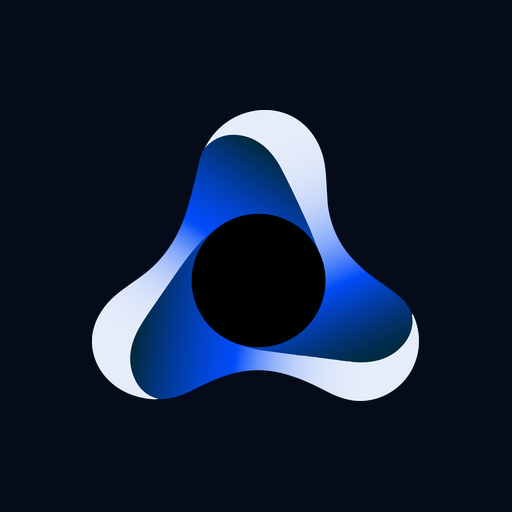
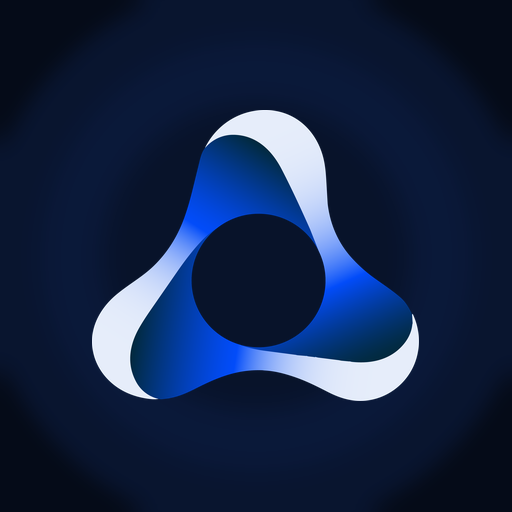
Actualizaciones varias para vista en celulares

diff --git a/app/page.tsx b/app/page.tsx
@@ -314,21 +314,36 @@ export default function OimaDashboard() {
 
         </header>
 
-        <div className="flex-1 p-4 lg:p-10 max-lg:pb-[max(1rem,env(safe-area-inset-bottom))]">
+        <div className="flex-1 p-4 lg:p-10 max-lg:pb-2">
           
           {vistaActual === "inicio" && condoDashboardData && (
             <div className="flex flex-col animate-in fade-in slide-in-from-top-4 duration-700">
-              {/* Móvil/iPad: saludo arriba. PC: saludo abajo (después de las tarjetas). */}
-              <div className="order-1 lg:order-2 mb-4 lg:mb-0 lg:mt-10 bg-[#0C1327] p-5 lg:p-8 rounded-[1.75rem] lg:rounded-[2.5rem] border border-white/5 shadow-2xl relative overflow-hidden group">
-                <div className="flex flex-col lg:flex-row lg:items-center gap-4 lg:gap-6 relative z-10">
-                  {/* Logo solo en PC; en celular se saca del saludo */}
+              {/* MÓVIL / iPad: saludo arriba, más alto, sin logo Vordia */}
+              <div className="lg:hidden mb-2.5 bg-[#0C1327] px-5 py-9 min-h-[8rem] rounded-[1.75rem] border border-white/5 shadow-2xl flex items-center">
+                <p className="text-slate-300 text-sm font-medium leading-relaxed">
+                  Hola{" "}
+                  <span className="text-blue-400 font-bold uppercase tracking-widest">
+                    {usuarioActivo?.nombre}
+                  </span>
+                  , el sistema está listo para operar. Elegí una opción en el menú.
+                </p>
+              </div>
+
+              {/* 8 tarjetas — en móvil más cerca del saludo y del pie */}
+              <div className="max-lg:mb-1">
+                <DashboardCards dashboardData={condoDashboardData} onRefresh={cargarDatos} />
+              </div>
+
+              {/* PC: saludo abajo CON logo Vordia (como antes) */}
+              <div className="hidden lg:block mt-10 bg-[#0C1327] p-8 rounded-[2.5rem] border border-white/5 shadow-2xl relative overflow-hidden group">
+                <div className="flex flex-row items-center gap-6 relative z-10">
                   <img
                     src="/images/VORDIA HORIZONTAL.png"
                     alt="Vordia"
-                    className="hidden lg:block h-12 w-auto max-w-[220px] object-contain object-left shrink-0"
+                    className="h-12 w-auto max-w-[220px] object-contain object-left shrink-0"
                   />
                   <div className="flex-1 min-w-0">
-                    <p className="text-slate-400 text-xs lg:text-sm font-medium leading-relaxed">
+                    <p className="text-slate-400 text-sm font-medium leading-relaxed">
                       Hola{" "}
                       <span className="text-blue-400 font-bold uppercase tracking-widest">
                         {usuarioActivo?.nombre}
@@ -337,9 +352,6 @@ export default function OimaDashboard() {
                     </p>
                   </div>
                 </div>
-              </div>
-              <div className="order-2 lg:order-1">
-                <DashboardCards dashboardData={condoDashboardData} onRefresh={cargarDatos} />
               </div>
             </div>
           )}
@@ -384,13 +396,13 @@ export default function OimaDashboard() {
           )}
         </div>
 
-        <footer className="w-full py-6 lg:py-10 px-4 lg:px-12 flex justify-end items-center no-print max-lg:pb-[max(1.5rem,env(safe-area-inset-bottom))]">
+        <footer className="w-full pt-3 pb-8 lg:py-10 px-4 lg:px-12 flex justify-end items-center no-print max-lg:min-h-[5.25rem] max-lg:pb-[max(2rem,env(safe-area-inset-bottom))]">
           <div className="relative group">
             <div className="absolute inset-0 bg-blue-600/10 blur-2xl rounded-full opacity-0 group-hover:opacity-100 transition-opacity duration-700" />
             <img 
               src="/images/VORDIA HORIZONTAL.png" 
               alt="Vordia" 
-              className="h-7 lg:h-9 w-auto max-w-[160px] lg:max-w-[180px] object-contain relative z-10 transition-transform duration-500 group-hover:scale-105 shrink-0"
+              className="h-8 lg:h-9 w-auto max-w-[170px] lg:max-w-[180px] object-contain relative z-10 transition-transform duration-500 group-hover:scale-105 shrink-0"
             />
           </div>
         </footer>

diff --git a/app/condominio/DashboardCards.tsx b/app/condominio/DashboardCards.tsx
@@ -1371,7 +1371,7 @@ export function DashboardCards({ dashboardData, onRefresh }: { dashboardData: an
     <div>
       
       {/* Móvil/iPad: SIEMPRE 2 columnas. Desktop: 4. (CSS .dashboard-metric-grid refuerza <1024px) */}
-      <div className="dashboard-metric-grid grid grid-cols-2 gap-2.5 sm:gap-3 lg:grid-cols-3 xl:grid-cols-4 mb-6 sm:mb-8">
+      <div className="dashboard-metric-grid grid grid-cols-2 gap-2 sm:gap-2.5 lg:grid-cols-3 xl:grid-cols-4 mb-2 sm:mb-4 lg:mb-8">
         {[
           { id: "ocupados", label: "Ocupados", labelShort: "Ocupados", value: stats.occupied, icon: Users, color: "text-primary", bg: "bg-primary/10", suffix: " Dúplex", currency: false },
           { id: "disponibles", label: "Disponibles", labelShort: "Disponibles", value: stats.available === 0 ? "Completo" : stats.available, icon: Home, color: "text-emerald-400", bg: "bg-emerald-400/10", suffix: stats.available === 0 ? "" : " Dúplex", currency: false },
@@ -1396,7 +1396,7 @@ export function DashboardCards({ dashboardData, onRefresh }: { dashboardData: an
             className={`border border-border shadow-sm transition-all duration-200 cursor-pointer ${detailView === metric.id ? 'ring-2 ring-primary' : ''} rounded-xl sm:rounded-2xl bg-card overflow-hidden group min-w-0`}
           >
             {/* Móvil: layout horizontal legible en 2 columnas */}
-            <CardContent className="lg:hidden p-3 relative flex flex-row items-center gap-2.5 min-h-[72px] min-w-0">
+            <CardContent className="lg:hidden p-2.5 relative flex flex-row items-center gap-2 min-h-[64px] min-w-0">
               <div className={`w-9 h-9 rounded-lg ${metric.bg} ${metric.color} flex items-center justify-center shrink-0`}>
                 <metric.icon className="w-4 h-4 stroke-[2px]" />
               </div>

diff --git a/app/manifest.ts b/app/manifest.ts
@@ -13,25 +13,25 @@ export default function manifest(): MetadataRoute.Manifest {
     theme_color: "#050B18",
     icons: [
       {
-        src: "/icons/icon-192.png",
+        src: "/icons/icon-192.png?v=20260818",
         sizes: "192x192",
         type: "image/png",
         purpose: "any",
       },
       {
-        src: "/icons/icon-512.png",
+        src: "/icons/icon-512.png?v=20260818",
         sizes: "512x512",
         type: "image/png",
         purpose: "any",
       },
       {
-        src: "/icons/icon-maskable-192.png",
+        src: "/icons/icon-maskable-192.png?v=20260818",
         sizes: "192x192",
         type: "image/png",
         purpose: "maskable",
       },
       {
-        src: "/icons/icon-maskable-512.png",
+        src: "/icons/icon-maskable-512.png?v=20260818",
         sizes: "512x512",
         type: "image/png",
         purpose: "maskable",

diff --git a/app/layout.tsx b/app/layout.tsx
@@ -34,12 +34,12 @@ export const metadata: Metadata = {
   // Iconos cuadrados oficiales (fondo #050B18 + área de protección) para acceso directo
   icons: {
     icon: [
-      { url: "/icons/icon-192.png", sizes: "192x192", type: "image/png" },
-      { url: "/icons/icon-512.png", sizes: "512x512", type: "image/png" },
+      { url: "/icons/icon-192.png?v=20260818", sizes: "192x192", type: "image/png" },
+      { url: "/icons/icon-512.png?v=20260818", sizes: "512x512", type: "image/png" },
     ],
-    shortcut: "/icons/icon-192.png",
+    shortcut: "/icons/icon-192.png?v=20260818",
     apple: [
-      { url: "/icons/apple-touch-icon.png", sizes: "180x180", type: "image/png" },
+      { url: "/icons/apple-touch-icon.png?v=20260818", sizes: "180x180", type: "image/png" },
     ],
   },
 };

diff --git a/app/globals.css b/app/globals.css
@@ -191,7 +191,7 @@ html {
 .dashboard-metric-grid {
   display: grid;
   grid-template-columns: repeat(2, minmax(0, 1fr));
-  gap: 0.65rem;
+  gap: 0.5rem;
 }
 @media (min-width: 1024px) {
   .dashboard-metric-grid {

diff --git a/scripts/generate_launcher_icons.py b/scripts/generate_launcher_icons.py
@@ -1,0 +1,127 @@
+"""Genera iconos PWA / launcher al estilo USO EN LAUNCHER (guía Vordia)."""
+from pathlib import Path
+
+from PIL import Image, ImageDraw, ImageFilter
+
+ROOT = Path(__file__).resolve().parents[1]
+ISO = ROOT / "public" / "images" / "ISOTIPO.png"
+OUT = ROOT / "public" / "icons"
+APP = ROOT / "app"
+BG = (5, 11, 24, 255)  # #050B18
+
+
+def load_logo() -> Image.Image:
+    src = Image.open(ISO).convert("RGBA")
+    pixels = src.load()
+    w, h = src.size
+
+    def is_content(x: int, y: int) -> bool:
+        r, g, b, a = pixels[x, y]
+        if a < 20:
+            return False
+        if r < 18 and g < 18 and b < 18:
+            return False
+        return True
+
+    minx, miny, maxx, maxy = w, h, 0, 0
+    found = False
+    for y in range(h):
+        for x in range(w):
+            if is_content(x, y):
+                found = True
+                minx = min(minx, x)
+                miny = min(miny, y)
+                maxx = max(maxx, x)
+                maxy = max(maxy, y)
+    if not found:
+        raise SystemExit("No se encontró contenido en ISOTIPO.png")
+
+    logo = src.crop((minx, miny, maxx + 1, maxy + 1))
+    cleaned = []
+    for r, g, b, a in logo.getdata():
+        if a < 20 or (r < 18 and g < 18 and b < 18):
+            cleaned.append((0, 0, 0, 0))
+        else:
+            cleaned.append((r, g, b, a))
+    logo.putdata(cleaned)
+    return logo
+
+
+def make_icon(
+    logo: Image.Image,
+    size: int,
+    logo_ratio: float = 0.64,
+    rounded: bool = False,
+    radius_ratio: float = 0.20,
+) -> Image.Image:
+    canvas = Image.new("RGBA", (size, size), BG)
+
+    # Brillo azul muy suave detrás del isotipo (como guía oficial)
+    glow = Image.new("RGBA", (size, size), (0, 0, 0, 0))
+    gd = ImageDraw.Draw(glow)
+    cx = cy = size // 2
+    for radius, alpha in (
+        (int(size * 0.55), 28),
+        (int(size * 0.42), 40),
+        (int(size * 0.30), 22),
+    ):
+        gd.ellipse([cx - radius, cy - radius, cx + radius, cy + radius], fill=(37, 99, 235, alpha))
+    glow = glow.filter(ImageFilter.GaussianBlur(radius=max(2, size // 40)))
+    canvas = Image.alpha_composite(canvas, glow)
+
+    target = int(size * logo_ratio)
+    lw, lh = logo.size
+    scale = target / max(lw, lh)
+    nw, nh = max(1, int(lw * scale)), max(1, int(lh * scale))
+    resized = logo.resize((nw, nh), Image.Resampling.LANCZOS)
+    ox = (size - nw) // 2
+    oy = (size - nh) // 2
+    canvas.alpha_composite(resized, (ox, oy))
+
+    if rounded:
+        # Squircle 20% con esquinas opacas del mismo color (evita relleno blanco en Android)
+        mask = Image.new("L", (size, size), 0)
+        md = ImageDraw.Draw(mask)
+        r = int(size * radius_ratio)
+        md.rounded_rectangle([0, 0, size - 1, size - 1], radius=r, fill=255)
+        out_img = Image.new("RGBA", (size, size), BG)
+        out_img.paste(canvas, (0, 0), mask)
+        return out_img.convert("RGB")
+
+    return canvas.convert("RGB")
+
+
+def main() -> None:
+    OUT.mkdir(parents=True, exist_ok=True)
+    logo = load_logo()
+    print("logo bbox", logo.size)
+
+    any_sizes = {
+        1024: "icon-1024.png",
+        512: "icon-512.png",
+        256: "icon-256.png",
+        192: "icon-192.png",
+        180: "icon-180.png",
+    }
+    for size, name in any_sizes.items():
+        # Cuadrado opaco: el SO aplica el squircle del launcher
+        make_icon(logo, size, logo_ratio=0.64, rounded=False).save(OUT / name, optimize=True)
+        print("wrote", name)
+
+    for size, name in ((192, "icon-maskable-192.png"), (512, "icon-maskable-512.png")):
+        make_icon(logo, size, logo_ratio=0.52, rounded=False).save(OUT / name, optimize=True)
+        print("wrote", name)
+
+    make_icon(logo, 180, logo_ratio=0.64).save(OUT / "apple-touch-icon.png", optimize=True)
+    make_icon(logo, 512, logo_ratio=0.64).save(APP / "icon.png", optimize=True)
+    make_icon(logo, 180, logo_ratio=0.64).save(APP / "apple-icon.png", optimize=True)
+
+    # Vista previa visual estilo USO EN LAUNCHER (squircle 20%)
+    make_icon(logo, 512, logo_ratio=0.64, rounded=True).save(
+        OUT / "_preview-launcher-squircle.png", optimize=True
+    )
+    print("done")
+
+
+if __name__ == "__main__":
+    main()
